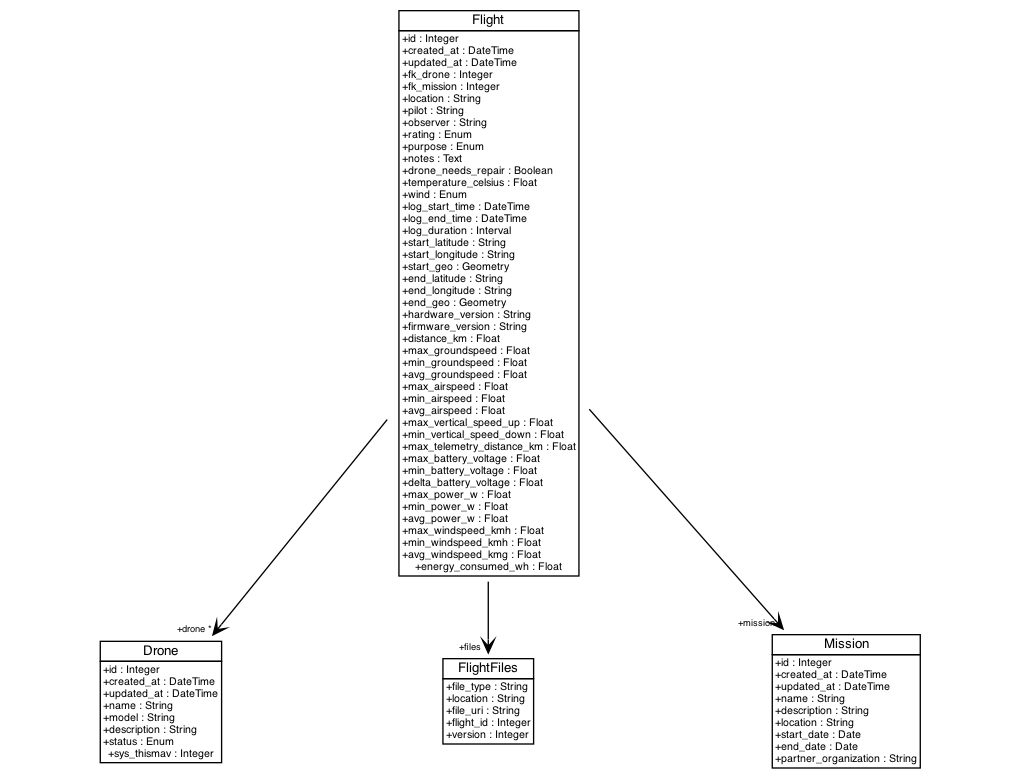
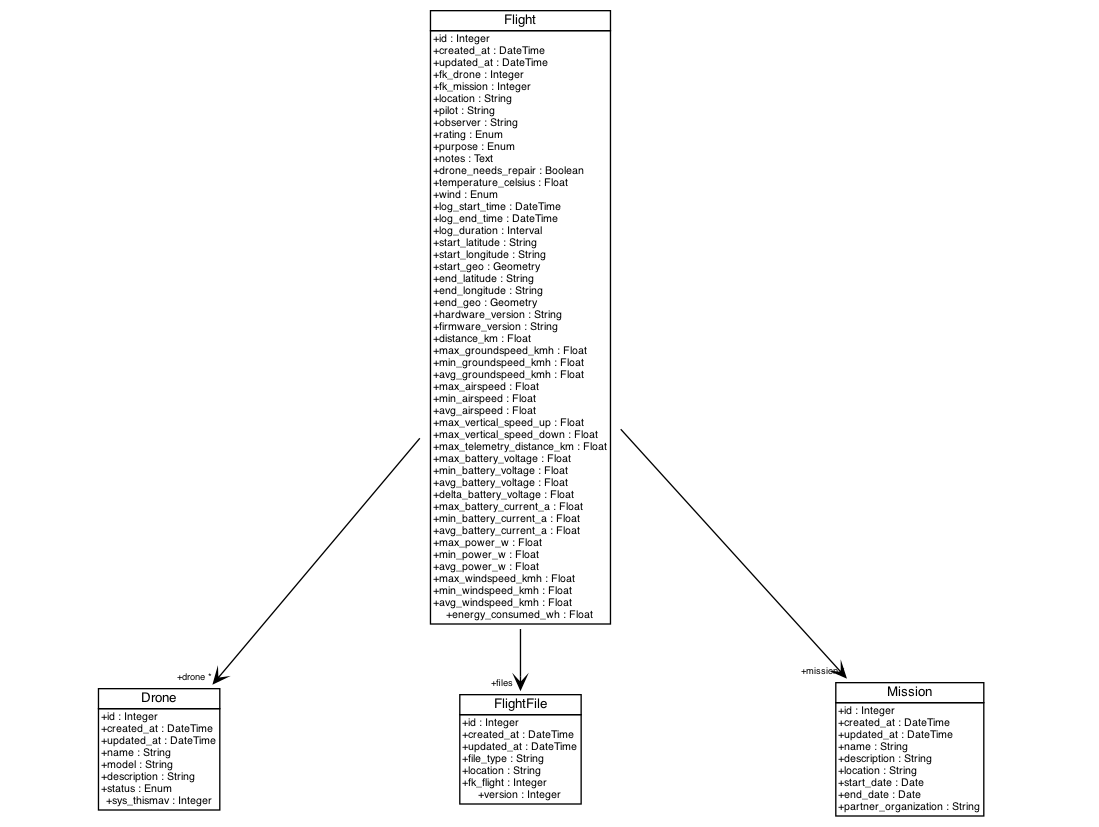
fix: typo

diff --git a/server/tests/conftest.py b/server/tests/conftest.py
@@ -73,14 +73,15 @@ def get_sample_flight():
             hardware_version=f"{fake.random_digit_not_null()}.{fake.random_digit_not_null()}",
             firmware_version=f"{fake.random_digit_not_null()}.{fake.random_digit_not_null()}",
             distance_km=fake.pyfloat(right_digits=2, min_value=0, max_value=100.0),
-            max_groundspeed=fake.pyfloat(right_digits=2, min_value=25.0, max_value=50.0),
-            min_groundspeed=fake.pyfloat(right_digits=2, min_value=0, max_value=25.0),
-            avg_groundspeed=fake.pyfloat(right_digits=2, min_value=12, max_value=30.0),
-            max_vertical_speed_up=fake.pyfloat(right_digits=2, min_value=12, max_value=30.0),
-            max_vertical_speed_down=fake.pyfloat(right_digits=2, min_value=12, max_value=30.0),
+            max_groundspeed_kmh=fake.pyfloat(right_digits=2, min_value=25.0, max_value=50.0),
+            min_groundspeed_kmh=fake.pyfloat(right_digits=2, min_value=0, max_value=25.0),
+            avg_groundspeed_kmh=fake.pyfloat(right_digits=2, min_value=12, max_value=30.0),
+            max_vertical_speed_up_kmh=fake.pyfloat(right_digits=2, min_value=12, max_value=30.0),
+            max_vertical_speed_down_kmh=fake.pyfloat(right_digits=2, min_value=12, max_value=30.0),
             max_telemetry_distance_km=fake.pyfloat(right_digits=2, min_value=10.0, max_value=20.0),
             max_battery_voltage=max_battery_voltage,
             min_battery_voltage=min_battery_voltage,
+            avg_battery_voltage=(max_battery_voltage - min_battery_voltage) / 2,
             delta_battery_voltage=max_battery_voltage - min_battery_voltage,
             min_power_w=fake.pyfloat(right_digits=2, min_value=0, max_value=12.0),
             max_power_w=fake.pyfloat(right_digits=2, min_value=12, max_value=30.0),
@@ -88,6 +89,9 @@ def get_sample_flight():
             min_windspeed_kmh=fake.pyfloat(right_digits=2, min_value=0, max_value=10.0),
             max_windspeed_kmh=fake.pyfloat(right_digits=2, min_value=10, max_value=25.0),
             avg_windspeed_kmh=fake.pyfloat(right_digits=2, min_value=12, max_value=20.0),
+            max_battery_current_a=fake.pyfloat(right_digits=2, min_value=12, max_value=20.0),
+            min_battery_current_a=fake.pyfloat(right_digits=2, min_value=2, max_value=12),
+            avg_battery_current_a=fake.pyfloat(right_digits=2, min_value=5, max_value=15),
             energy_consumed_wh=fake.pyfloat(right_digits=2, min_value=10, max_value=100.0),
         )
 

diff --git a/server/src/domain/flight/entities.py b/server/src/domain/flight/entities.py
@@ -52,16 +52,16 @@ class BaseComputedFields(BaseModel):
 
     distance_km: Optional[float] = None
 
-    max_groundspeed: Optional[float] = None
-    min_groundspeed: Optional[float] = None
-    avg_groundspeed: Optional[float] = None
+    max_groundspeed_kmh: Optional[float] = None
+    min_groundspeed_kmh: Optional[float] = None
+    avg_groundspeed_kmh: Optional[float] = None
 
-    max_airspeed: Optional[float] = None
-    min_airspeed: Optional[float] = None
-    avg_airspeed: Optional[float] = None
+    max_airspeed_kmh: Optional[float] = None
+    min_airspeed_kmh: Optional[float] = None
+    avg_airspeed_kmh: Optional[float] = None
 
-    max_vertical_speed_up: Optional[float] = None
-    max_vertical_speed_down: Optional[float] = None
+    max_vertical_speed_up_km: Optional[float] = None
+    max_vertical_speed_down_km: Optional[float] = None
 
     max_telemetry_distance_km: Optional[float] = None
 
@@ -70,9 +70,9 @@ class BaseComputedFields(BaseModel):
     avg_battery_voltage: Optional[float]
     delta_battery_voltage: Optional[float]
 
-    max_battery_current_a = Optional(float)
-    min_battery_current_a = Optional(float)
-    avg_battery_current_a = Optional(float)
+    max_battery_current_a: Optional[float]
+    min_battery_current_a: Optional[float]
+    avg_battery_current_a: Optional[float]
 
     min_power_w: Optional[float]
     max_power_w: Optional[float]

diff --git a/server/src/infrastructure/db/orm.py b/server/src/infrastructure/db/orm.py
@@ -113,12 +113,12 @@ class Flight(BaseModel):
     min_groundspeed_kmh = Column(Float)
     avg_groundspeed_kmh = Column(Float)
 
-    max_airspeed = Column(Float)
-    min_airspeed = Column(Float)
-    avg_airspeed = Column(Float)
+    max_airspeed_kmh = Column(Float)
+    min_airspeed_kmh = Column(Float)
+    avg_airspeed_kmh = Column(Float)
 
-    max_vertical_speed_up = Column(Float)
-    max_vertical_speed_down = Column(Float)
+    max_vertical_speed_up_km = Column(Float)
+    max_vertical_speed_down_km = Column(Float)
 
     max_telemetry_distance_km = Column(Float)
 
